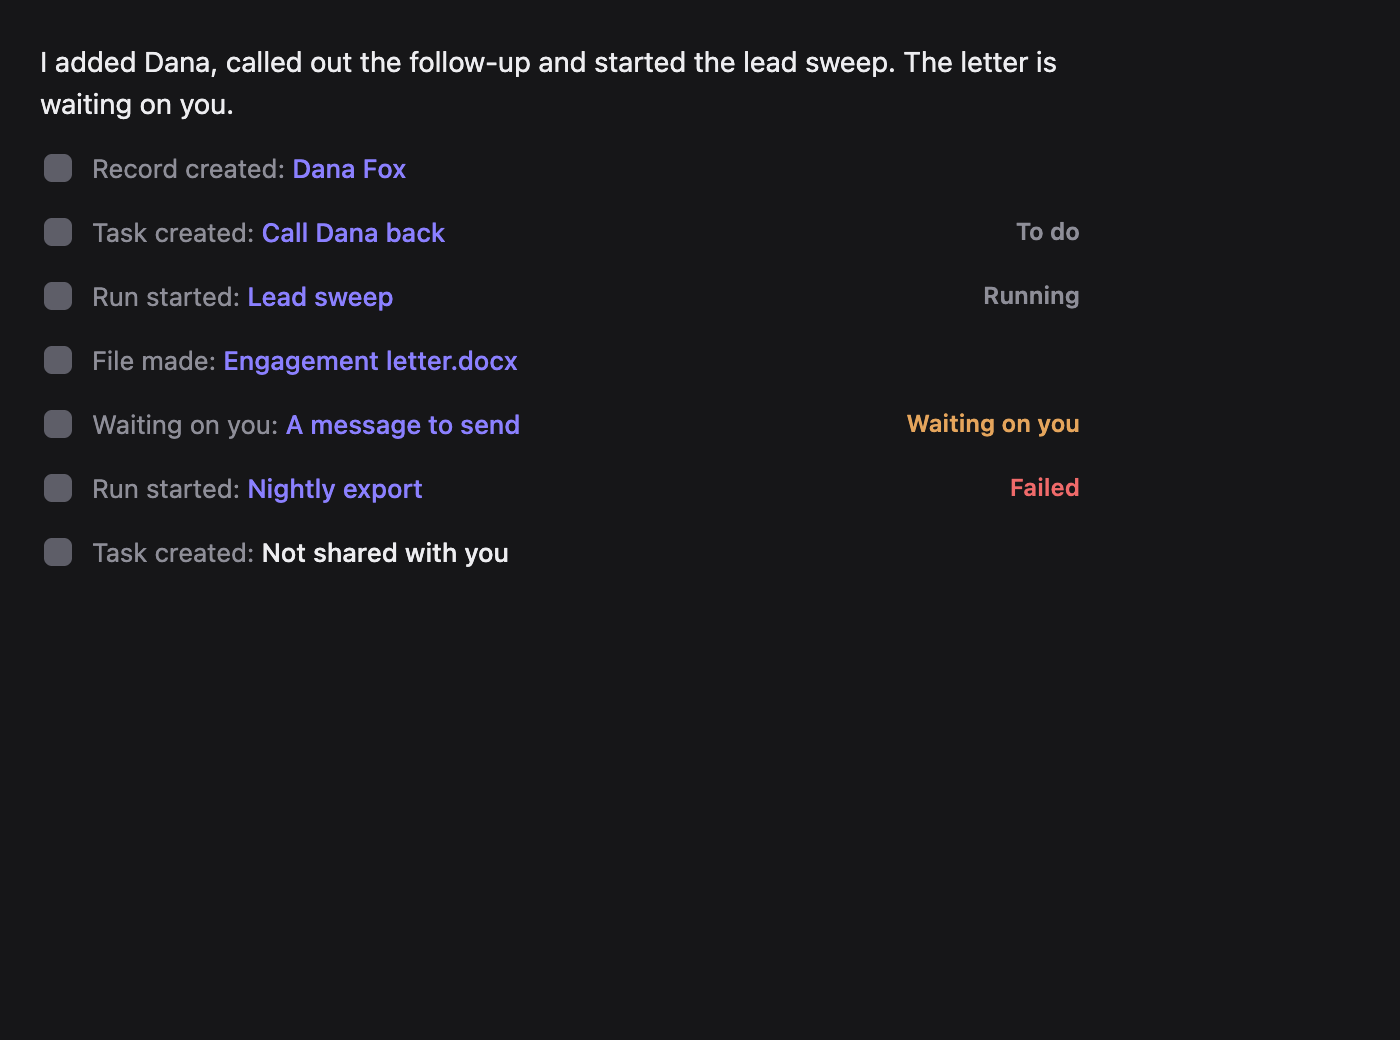
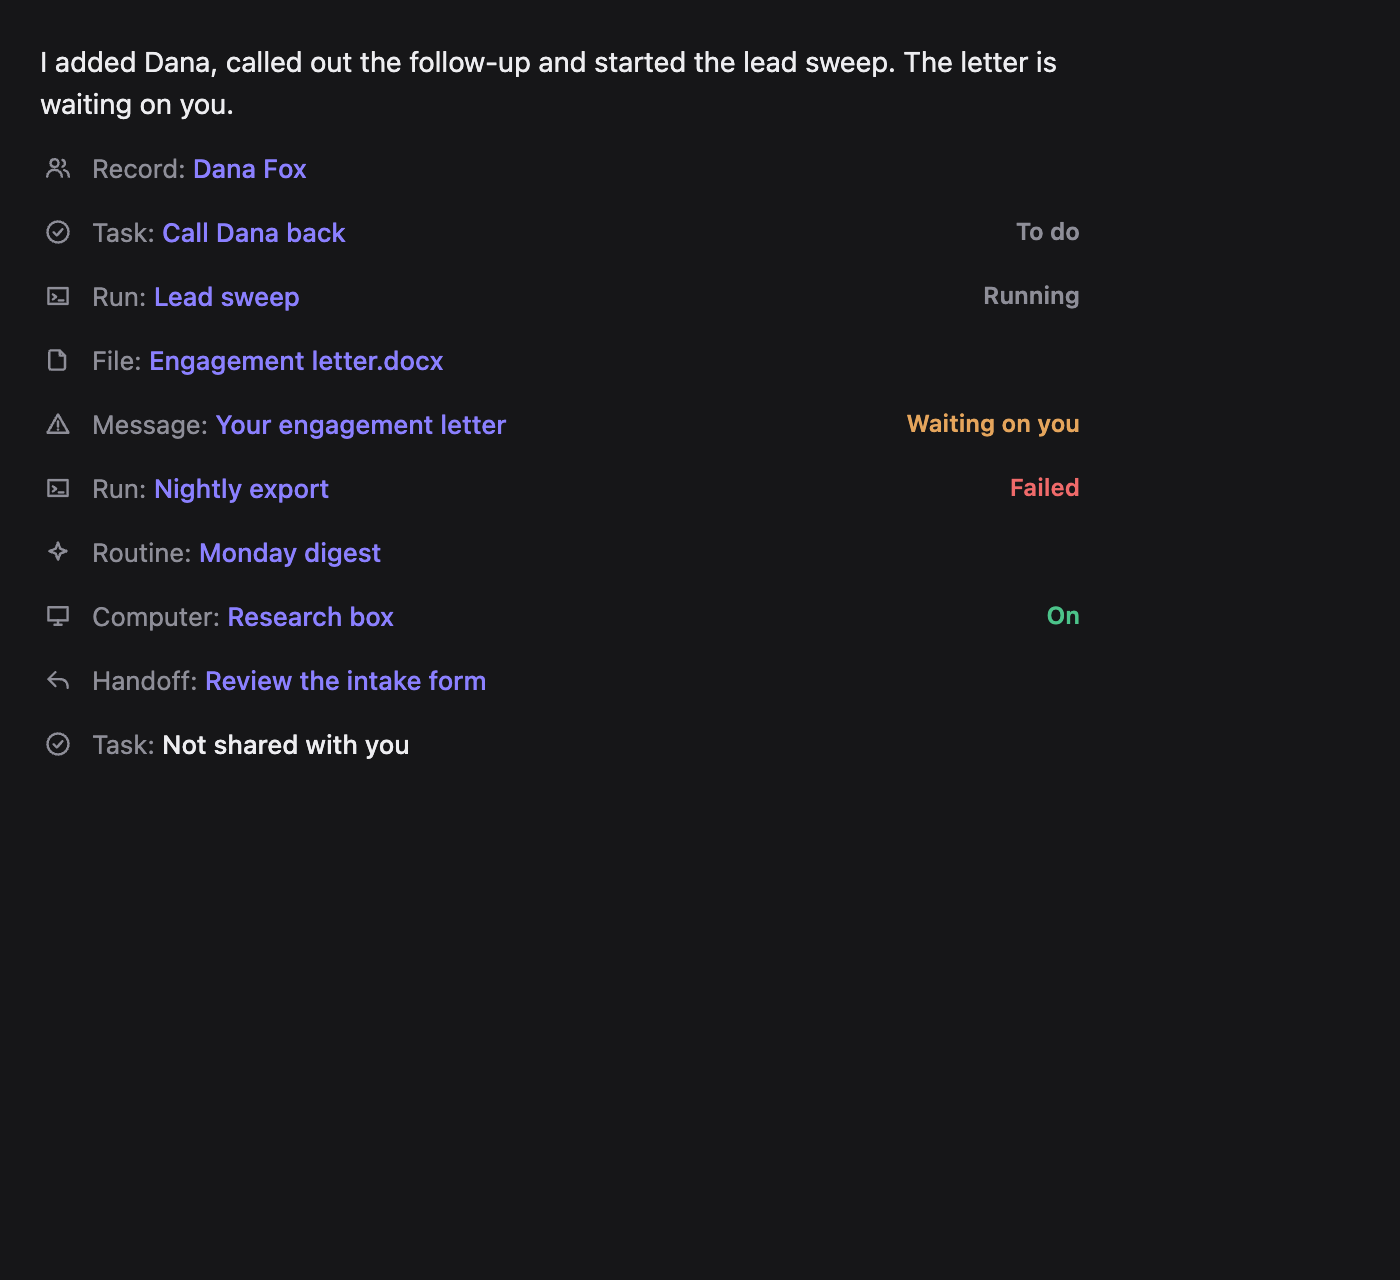
fix: work cards say what a thing is, state on the right, real glyph per kind

diff --git a/agent/src/tools/work-cards.ts b/agent/src/tools/work-cards.ts
@@ -1,9 +1,9 @@
 // The work a turn started, as link cards (rc.9, "all work appears as a card in the chat you are in"). Each tool call that makes something a person would want to find again (a task, a Run, a record, a file,
 // a Routine, a handoff, a computer, a send waiting on a yes) is noted against its turn here, and the bridge puts the cards under the agent's reply when the turn ends, so several from one turn are one group
 // under the words, not a pile. The card carries only a name and where it lives; its state (running, done, waiting on you) and whether the reader may see it are read by the app when it draws the card.
-import type { LinkCardData } from "../../../ui/src/blocks/link-card/model.ts";
 
-export interface WorkCard extends LinkCardData { /** one card per thing: a record changed twice is one card */ key: string }
+/** The link_card block fields a work card fills (the agent layer cannot import ui; the shape is the link_card block's). */
+export interface WorkCard { icon: string; lead: string; title: string; target: { type: string; id: string }; via?: string; /** one card per thing: a record changed twice is one card */ key: string }
 
 const rec = (v: unknown): Record<string, unknown> => (v !== null && typeof v === "object" && !Array.isArray(v) ? (v as Record<string, unknown>) : {});
 const s = (v: unknown): string => (typeof v === "string" ? v : "");
@@ -22,42 +22,45 @@ export function workCardOf(cap: string, input: unknown, output: unknown): WorkCa
   switch (cap) {
     case "tasks.create": {
       const t = rec(o["task"]);
-      return s(t["id"]) ? { key: `task:${s(t["id"])}`, icon: "task", lead: "Task created", title: clip(first(t["title"], i["title"], "A task")), target: { type: "task", id: s(t["id"]) } } : null;
+      return s(t["id"]) ? { key: `task:${s(t["id"])}`, icon: "task", lead: "Task", title: clip(first(t["title"], i["title"], "A task")), target: { type: "task", id: s(t["id"]) } } : null;
     }
     case "automations.run": case "automations.test": {
       const id = s(o["runId"]);
-      return id ? { key: `run:${id}`, icon: "run", lead: cap === "automations.test" ? "Test started" : "Run started", title: clip(first(i["name"], "A Flow")), target: { type: "run", id } } : null;
+      return id ? { key: `run:${id}`, icon: "run", lead: cap === "automations.test" ? "Test" : "Run", title: clip(first(i["name"], "A Flow")), target: { type: "run", id } } : null;
     }
     case "records.create": case "records.update": {
       const r = rec(o["record"]);
       const id = s(r["id"]);
-      return id ? { key: `record:${id}`, icon: "record", lead: cap === "records.create" ? "Record created" : "Record changed", title: clip(recordName(r) || "A record"), target: { type: "record", id }, via: s(r["type"]) || s(i["type"]) } : null;
+      return id ? { key: `record:${id}`, icon: "record", lead: "Record", title: clip(recordName(r) || "A record"), target: { type: "record", id }, via: s(r["type"]) || s(i["type"]) } : null;
     }
     case "files.create": {
       const f = rec(o["file"]);
-      return s(f["fileId"]) ? { key: `file:${s(f["fileId"])}`, icon: "file", lead: "File made", title: clip(first(f["name"], i["name"], "A file")), target: { type: "file", id: s(f["fileId"]) } } : null;
+      return s(f["fileId"]) ? { key: `file:${s(f["fileId"])}`, icon: "file", lead: "File", title: clip(first(f["name"], i["name"], "A file")), target: { type: "file", id: s(f["fileId"]) } } : null;
     }
     case "agents.routine.save": {
       const r = rec(o["routine"]);
-      return s(r["routineId"]) ? { key: `routine:${s(r["routineId"])}`, icon: "run", lead: "Routine saved", title: clip(first(r["title"], i["title"], "A Routine")), ...(s(i["agentId"]) ? { target: { type: "agent", id: s(i["agentId"]) } } : {}) } : null;
+      return s(r["routineId"]) ? { key: `routine:${s(r["routineId"])}`, icon: "routine", lead: "Routine", title: clip(first(r["title"], i["title"], "A Routine")), ...(s(i["agentId"]) ? { target: { type: "agent", id: s(i["agentId"]) } } : {}) } : null;
     }
     case "chat.handoff": {
       const t = rec(rec(o["thread"])["thread"] ?? o["thread"]);
       const id = s(t["threadId"]);
-      return id ? { key: `thread:${id}`, icon: "thread", lead: "Handed off", title: clip(first(t["title"], "A linked thread")), target: { type: "thread", id } } : null;
+      return id ? { key: `thread:${id}`, icon: "thread", lead: "Handoff", title: clip(first(t["title"], "A linked thread")), target: { type: "thread", id } } : null;
     }
     case "computers.provision": {
       const c = rec(o["computer"]);
-      return s(c["computerId"]) ? { key: `computer:${s(c["computerId"])}`, icon: "computer", lead: "Computer ready", title: clip(first(c["name"], "Agent computer")), target: { type: "computer", id: s(c["computerId"]) } } : null;
+      return s(c["computerId"]) ? { key: `computer:${s(c["computerId"])}`, icon: "computer", lead: "Computer", title: clip(first(c["name"], "Agent computer")), target: { type: "computer", id: s(c["computerId"]) } } : null;
     }
     default: return null;
   }
 }
 
-/** A call a person must say yes to: the card is the one place in the chat that says so and opens the task. */
-export function heldCard(cap: string, taskId: string): WorkCard {
+/** A call a person must say yes to: the card is the one place in the chat that names it and opens the task. A send is named by its subject (else its recipient); anything else by the capability in words. */
+export function heldCard(cap: string, taskId: string, input?: unknown): WorkCard {
+  const i = rec(input);
   const send = /(^|\.)send($|_)/.test(cap) || cap.startsWith("mail.");
-  return { key: `task:${taskId}`, icon: "task", lead: "Held for you", title: send ? "A message to send" : "A step to approve", target: { type: "task", id: taskId } };
+  const to = Array.isArray(i["to"]) ? s(rec((i["to"] as unknown[])[0])["address"]) : "";
+  const title = send ? clip(first(i["subject"], to ? `To ${to}` : "", "Message to send")) : clip(cap.replace(/[._]/g, " "));
+  return { key: `task:${taskId}`, icon: "approval", lead: send ? "Message" : "Approval", title, target: { type: "task", id: taskId } };
 }
 
 const WORK = new Map<string, Map<string, WorkCard>>();

diff --git a/agent/tests/work-cards.test.ts b/agent/tests/work-cards.test.ts
@@ -4,16 +4,16 @@ import assert from "node:assert/strict";
 import { heldCard, recordWork, takeWork, workBlocks, workCardOf } from "../src/tools/work-cards.ts";
 
 test("each kind of work has a card that names it and points at it", () => {
-  assert.deepEqual(workCardOf("tasks.create", {}, { task: { id: "tsk_1", title: "Call Dana" } }), { key: "task:tsk_1", icon: "task", lead: "Task created", title: "Call Dana", target: { type: "task", id: "tsk_1" } });
-  assert.equal(workCardOf("automations.run", { name: "Lead sweep" }, { runId: "run_1" })!.lead, "Run started");
-  assert.equal(workCardOf("automations.test", {}, { runId: "run_2" })!.lead, "Test started");
+  assert.deepEqual(workCardOf("tasks.create", {}, { task: { id: "tsk_1", title: "Call Dana" } }), { key: "task:tsk_1", icon: "task", lead: "Task", title: "Call Dana", target: { type: "task", id: "tsk_1" } });
+  assert.equal(workCardOf("automations.run", { name: "Lead sweep" }, { runId: "run_1" })!.lead, "Run");
+  assert.equal(workCardOf("automations.test", {}, { runId: "run_2" })!.lead, "Test");
   const rec = workCardOf("records.create", { type: "contact" }, { record: { id: "rec_1", type: "contact", fields: { name: "Dana Fox", email: "d@x.test" } } })!;
-  assert.deepEqual([rec.lead, rec.title, rec.via, rec.target], ["Record created", "Dana Fox", "contact", { type: "record", id: "rec_1" }]);
-  assert.equal(workCardOf("records.update", {}, { record: { id: "rec_1", type: "contact", fields: { name: "Dana" } } })!.lead, "Record changed");
+  assert.deepEqual([rec.lead, rec.title, rec.via, rec.target], ["Record", "Dana Fox", "contact", { type: "record", id: "rec_1" }]);
+  assert.equal(workCardOf("records.update", {}, { record: { id: "rec_1", type: "contact", fields: { name: "Dana" } } })!.lead, "Record");
   assert.deepEqual(workCardOf("files.create", {}, { file: { fileId: "fil_1", name: "letter.docx" } })!.target, { type: "file", id: "fil_1" });
-  assert.equal(workCardOf("agents.routine.save", { agentId: "agt_1" }, { routine: { routineId: "rtn_1", title: "Morning sweep" } })!.lead, "Routine saved");
-  assert.equal(workCardOf("chat.handoff", {}, { thread: { threadId: "thr_2", title: "For Billing" } })!.lead, "Handed off");
-  assert.equal(workCardOf("computers.provision", {}, { computer: { computerId: "cmt_1" } })!.lead, "Computer ready");
+  assert.equal(workCardOf("agents.routine.save", { agentId: "agt_1" }, { routine: { routineId: "rtn_1", title: "Morning sweep" } })!.lead, "Routine");
+  assert.equal(workCardOf("chat.handoff", {}, { thread: { threadId: "thr_2", title: "For Billing" } })!.lead, "Handoff");
+  assert.equal(workCardOf("computers.provision", {}, { computer: { computerId: "cmt_1" } })!.lead, "Computer");
 });
 
 test("a call that made nothing, or a cap that is not work, makes no card", () => {
@@ -23,8 +23,10 @@ test("a call that made nothing, or a cap that is not work, makes no card", () =>
 });
 
 test("a send waiting on a yes is a card that says so", () => {
-  assert.deepEqual(heldCard("mail.send", "tsk_9"), { key: "task:tsk_9", icon: "task", lead: "Held for you", title: "A message to send", target: { type: "task", id: "tsk_9" } });
-  assert.equal(heldCard("records.delete", "tsk_8").title, "A step to approve");
+  assert.deepEqual(heldCard("mail.send", "tsk_9", { subject: "Your engagement letter", to: [{ address: "d@x.test" }] }), { key: "task:tsk_9", icon: "approval", lead: "Message", title: "Your engagement letter", target: { type: "task", id: "tsk_9" } });
+  assert.equal(heldCard("mail.send", "tsk_9", { to: [{ address: "d@x.test" }] }).title, "To d@x.test", "no subject: the recipient");
+  assert.equal(heldCard("mail.send", "tsk_9").title, "Message to send");
+  assert.deepEqual([heldCard("records.delete", "tsk_8").lead, heldCard("records.delete", "tsk_8").title], ["Approval", "records delete"]);
 });
 
 test("a turn's cards come out in the order made, once each, and are gone once taken", () => {
@@ -34,7 +36,7 @@ test("a turn's cards come out in the order made, once each, and are gone once ta
   recordWork("trn_a", null);
   recordWork(undefined, workCardOf("tasks.create", {}, { task: { id: "tsk_2", title: "x" } }));
   const blocks = workBlocks("trn_a");
-  assert.deepEqual(blocks.map((b) => (b.data as { lead: string; title: string }).lead + ":" + (b.data as { title: string }).title), ["Record changed:Dana Fox", "Task created:Call"], "the record changed twice is one card, in its first place");
+  assert.deepEqual(blocks.map((b) => (b.data as { lead: string; title: string }).lead + ":" + (b.data as { title: string }).title), ["Record:Dana Fox", "Task:Call"], "the record changed twice is one card, in its first place");
   assert.ok(blocks.every((b) => b.type === "link_card" && !("key" in (b.data as object))));
   assert.deepEqual(takeWork("trn_a"), []);
 });

diff --git a/test/work-cards.journeys.live.test.ts b/test/work-cards.journeys.live.test.ts
@@ -1,6 +1,6 @@
 // The real app, rc.9 lane E: work an agent starts in a chat appears under its reply as cards. Same harness as the personal mail journeys (test/support/mail-browser.ts): Node 24, Chromium and the web
 // export (VYRE_APP_DIST); with VYRE_REQUIRE_CHROME=1 (CI) it fails instead of skipping. Pictures of every step in light and dark, desktop and phone, in shots-evidence/work-cards-journey/.
-//   An agent is asked to make a record: the reply carries a "Record created" card with the record's name, which opens the record. Then it is asked to run a Flow: the Run card says what the Run is doing
+//   An agent is asked to make a record: the reply carries a "Record" card with the record's name, which opens the record. Then it is asked to run a Flow: the Run card says what the Run is doing
 //   and reads Done when it ends.
 import test from "node:test";
 import assert from "node:assert/strict";
@@ -29,13 +29,13 @@ test("journey, work cards: the reply says what was made and the cards stay curre
 
     // 1. a record
     await w.owner.ok("chat.post", { threadId, body: `TOOL records_create ${JSON.stringify({ type: "contact", fields: { name: "Dana Fox" }, idempotencyKey: "j-rec" })}`, mentions: [{ kind: "agent", id: helper }] });
-    await until(async () => { await w.d.hooks?.pump?.(); return (await me.page.getByText(/Record created/).count()) > 0 ? true : null; }, "the Record created card", 40_000);
+    await until(async () => { await w.d.hooks?.pump?.(); return (await me.page.getByText("Record", { exact: false }).count()) > 0 ? true : null; }, "the Record card", 40_000);
     assert.ok(await me.page.getByText("Dana Fox").first().isVisible(), "the card names the record");
     await shoot(me.page, dir, "record-card");
 
     // 2. a Run
     await w.owner.ok("chat.post", { threadId, body: `TOOL automations_run ${JSON.stringify({ automationId: flow, idempotencyKey: "j-run" })}`, mentions: [{ kind: "agent", id: helper }] });
-    await until(async () => { await w.d.hooks?.pump?.(); return (await me.page.getByText(/Run started/).count()) > 0 ? true : null; }, "the Run started card", 40_000);
+    await until(async () => { await w.d.hooks?.pump?.(); return (await me.page.getByText(/^Run:/).count()) > 0 ? true : null; }, "the Run started card", 40_000);
     await until(async () => { await w.d.hooks?.pump?.(); return (await me.page.getByText("Done", { exact: true }).count()) > 0 ? true : null; }, "the Run card reads Done", 40_000);
     await shoot(me.page, dir, "run-card-done");
     assert.deepEqual(me.errors, [], "no page errors");

diff --git a/test/work-cards.live.test.ts b/test/work-cards.live.test.ts
@@ -27,7 +27,7 @@ test("work cards live: a record the agent makes is a card under its reply that n
     await ok(d, "threads.set_mode", { threadId, mode: "auto" });
     await ok(d, "chat.post", { threadId, body: `TOOL records_create ${JSON.stringify({ type: "contact", fields: { name: "Dana Fox" }, idempotencyKey: "wc-rec" })}`, mentions: [{ kind: "agent", id: agent.id }] });
     const cards = await waitFor(async () => { await d.hooks?.pump?.(); const c = await cardsOf(d, threadId); return c.length ? c : null; }, 40_000, () => hostLog(d));
-    assert.equal(cards[0]!.lead, "Record created");
+    assert.equal(cards[0]!.lead, "Record");
     assert.equal(cards[0]!.title, "Dana Fox");
     assert.equal(cards[0]!.target!.type, "record");
     // the card points at a record the person can read
@@ -37,7 +37,7 @@ test("work cards live: a record the agent makes is a card under its reply that n
     const flow = (await ok(d, "automations.create", { name: "Lead sweep", definition: { triggers: [{ key: "manual" }], nodes: [{ id: "t", key: "create_task", title: "Call the lead", input: { title: "Call the lead", assigned: { kind: "person", id: "usr_olivia" } } }] } })).automation.id as string;
     await ok(d, "automations.set_enabled", { automationId: flow, enabled: true });
     await ok(d, "chat.post", { threadId, body: `TOOL automations_run ${JSON.stringify({ automationId: flow, idempotencyKey: "wc-run" })}`, mentions: [{ kind: "agent", id: agent.id }] });
-    const run = await waitFor(async () => { await d.hooks?.pump?.(); return (await cardsOf(d, threadId)).find((c) => c.lead === "Run started") ?? null; }, 40_000, () => hostLog(d));
+    const run = await waitFor(async () => { await d.hooks?.pump?.(); return (await cardsOf(d, threadId)).find((c) => c.lead === "Run") ?? null; }, 40_000, () => hostLog(d));
     assert.equal(run.target!.type, "run");
     assert.equal((await call(d, "runs.get", { runId: run.target!.id })).status, 200, "the card points at a Run the person can read");
   } finally { await d.stop(); }

diff --git a/apps/app/src/places/chats/conversation/MessageView.tsx b/apps/app/src/places/chats/conversation/MessageView.tsx
@@ -409,7 +409,8 @@ function useCardState(data: LinkCardData, actions: MessageActions): { state: Car
 }
 
 /** The glyph a link card's icon word asks for. */
-const linkGlyph = (icon: string): GlyphName => (icon === "task" ? "task" : icon === "file" || icon === "record" ? "file" : icon === "fact" ? "spark" : icon === "run" || icon === "computer" ? "term" : "reply");
+const LINK_GLYPH: Record<string, GlyphName> = { task: "task", file: "file", fact: "spark", record: "people", run: "term", routine: "spark", computer: "monitor", approval: "alert", thread: "reply" };
+export const linkGlyph = (icon: string): GlyphName => LINK_GLYPH[icon] ?? "reply";
 
 const CARD_ICON: Record<string, GlyphName> = { terminal: "term", plan: "plan", file: "file", changeset: "file", diff: "file", screenshot: "file", record_card: "file", question: "spark" };
 const OPENS = new Set(["terminal", "changeset", "diff", "file", "record_card", "tab_opened", "screenshot", "deploy", "mount"]);

diff --git a/modules/engine/tests/bridge.test.ts b/modules/engine/tests/bridge.test.ts
@@ -327,5 +327,5 @@ test("what a turn started comes under its reply as cards, in one message, in the
   const posts = s.chat.filter((r) => r.author.id === LEAD);
   assert.equal(posts.length, 1, "one reply, not a pile");
   assert.equal(posts[0]?.body, "Done, I made both.");
-  assert.deepEqual((posts[0]!.blocks as { type: string; data: { lead: string; title: string } }[]).map((b) => `${b.type}:${b.data.lead}:${b.data.title}`), ["link_card:Record created:Dana Fox", "link_card:Task created:Call Dana"]);
+  assert.deepEqual((posts[0]!.blocks as { type: string; data: { lead: string; title: string } }[]).map((b) => `${b.type}:${b.data.lead}:${b.data.title}`), ["link_card:Record:Dana Fox", "link_card:Task:Call Dana"]);
 });

diff --git a/agent/src/tools/call.ts b/agent/src/tools/call.ts
@@ -148,7 +148,7 @@ export function createToolSession(deps: CallDeps): ToolSession {
     try {
       const res = await deps.invoke(t.cap, isDynamic && deps.dynamic ? deps.dynamic.input(ctx, t, input) : input, seed);
       if (res.status === "held") {
-        recordWork(ctx.turnId, heldCard(t.cap, res.taskId));
+        recordWork(ctx.turnId, heldCard(t.cap, res.taskId, input));
         return {
           kind: "held", taskId: res.taskId, traceId: res.traceId, ...(res.runId === undefined ? {} : { runId: res.runId }),
           result: { ok: false, content: { held: true, taskId: res.taskId, message: "Waiting for approval." } },

diff --git a/ui/src/blocks/link-card/model.ts b/ui/src/blocks/link-card/model.ts
@@ -8,7 +8,7 @@ export interface LinkTarget { type: string; id: string }
 export interface LinkCardData {
   /** What kind of thing the card is about: the host picks its glyph (task, fact, file, record, summary, thread). */
   icon: string;
-  /** The verb, said as it happened: "Task created", "Remembered", "Summary". */
+  /** What the thing is, not what happened, so a card does not go stale: "Task", "Run", "Summary". */
   lead: string;
   /** The thing's own name: the task title, the fact, the file name. Opens the target when there is one. */
   title: string;

diff --git a/changelog.d/feat-work-cards.md b/changelog.d/feat-work-cards.md
@@ -1,1 +1,3 @@
 Work an agent starts in a chat now appears under its reply as cards: a task, a Run, a record made or changed, a file, a Routine, a handoff, a computer, and a send or step waiting for your yes. Several from one turn are one group under the words. A card reads what its thing is doing now (running, done, failed, waiting on you) and opens it; a reader who may not open the thing sees 'Not shared with you' instead of its name.
+
+Cards say what a thing is and the state sits on the right ("Run: Nightly export  Failed"), so a card stays true as it ages. Each kind has its own glyph. A send waiting for your yes is named by its subject or recipient.
